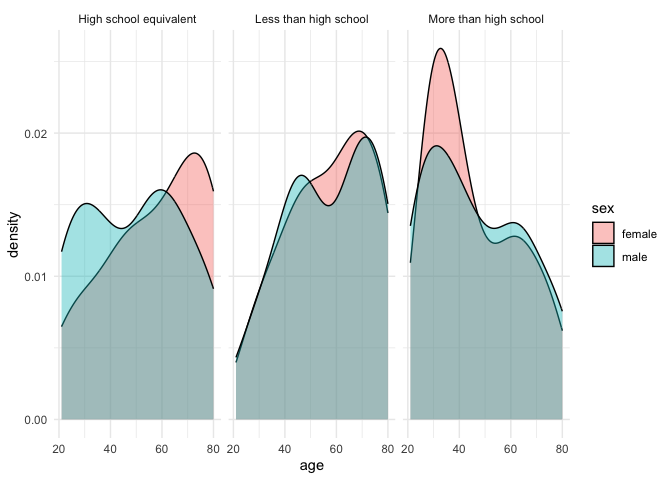
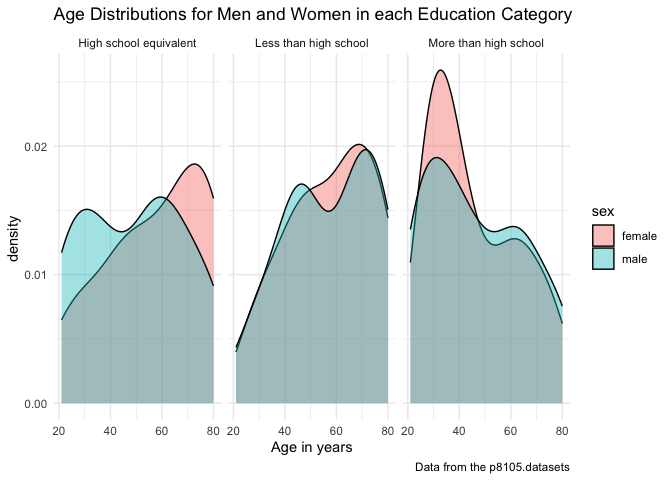
add some labels to all graphs in problem 3

diff --git a/p8105_hw3_xw2962.md b/p8105_hw3_xw2962.md
@@ -528,7 +528,11 @@ sex_edu_age_plot = merged_demo_accel_data|>
   ggplot(aes(x = age, fill = sex))+
   geom_density(alpha = .4)+
   facet_grid(. ~ education) +
-  theme_minimal()
+  theme_minimal() +
+  labs(title = "Age Distributions for Men and Women in each Education Category", 
+       x = "Age in years",
+       y = "density ",
+       caption = "Data from the p8105.datasets")
 sex_edu_age_plot
 ```
 
@@ -540,7 +544,8 @@ For creating the visualization of the age distribution for men and women
 in each education category,we set up the age as x variable and sex as
 fill in the ggplot aesthetics. Then, we used geom_density plot and set
 transparency level as 0.4. Then we created seperate panels for different
-education levels using facet_grid function.
+education levels using facet_grid function. Finally, we set the theme
+and added title and labels for the plot.
 
 We could see in the plot that, for people who have more than high school
 degree, more of them are younger people. For people who have less than
@@ -560,7 +565,8 @@ aggregated_age_plot = acc_agg_df|>
   geom_point(alpha = .5)+
   geom_smooth()+
   facet_grid(. ~ education)+
-  theme_minimal()
+  theme_minimal() +
+  labs(x="Age in Years",y="Total Activity",title="Total Activities against Age Categorized by Education and Gender",caption = "Data from the p8105.datasets")
 aggregated_age_plot
 ```
 
@@ -574,7 +580,8 @@ with min in each row and named that row sum as aggregate_move. Then, we
 set age as x variable and aggregate_move as y variable, and sex as color
 in the aesthetics. We used geom_point together with geom_smooth for
 showing the trends. And created seperate panels for different education
-levels using facet_grid function.
+levels using facet_grid function. Finally, we set the theme and added
+title and labels for the plot.
 
 From the plots, we can see that all movements begin decreasing as ages
 exceed 60. In the high school equivalent and more than high school
@@ -598,7 +605,7 @@ group_24_plot = group_24_df|>
   ggplot(aes(x = time, y = mean,color = sex))+
   geom_point(alpha = .1)+
   geom_smooth(se=FALSE)+
-  labs(x="Minute of the day",y="Mean Activity Value",title="24-hour Activity Time Courses for each Education Level") +
+  labs(x="Time in Minutes",y="Mean Activity Value",title="24-hour Activity Time Courses Categorized by Education and Gender",caption = "Data from the p8105.datasets") +
   facet_grid(. ~ education) +
   scale_color_hue(
       name = "Sex", 
@@ -619,8 +626,9 @@ pivot longer functions to switch from wide to longer version of the
 dataframe. Here, we also used mutate function to extract the time as a
 numeric value. We set time as x variable and mean as y variable and sex
 as color in aesthetics and used geom_point as well as geom_smooth for
-plotting. Finally, we added axis labels and created seperate panels for
-different education levels using facet_grid function.
+plotting. We added axis labels and created seperate panels for different
+education levels using facet_grid function. We also set the theme and
+color scale to make the plot more visible and analyzable.
 
 For people in the group of high school equivalent and more than high
 school, average movement for female is higher than average movement for
